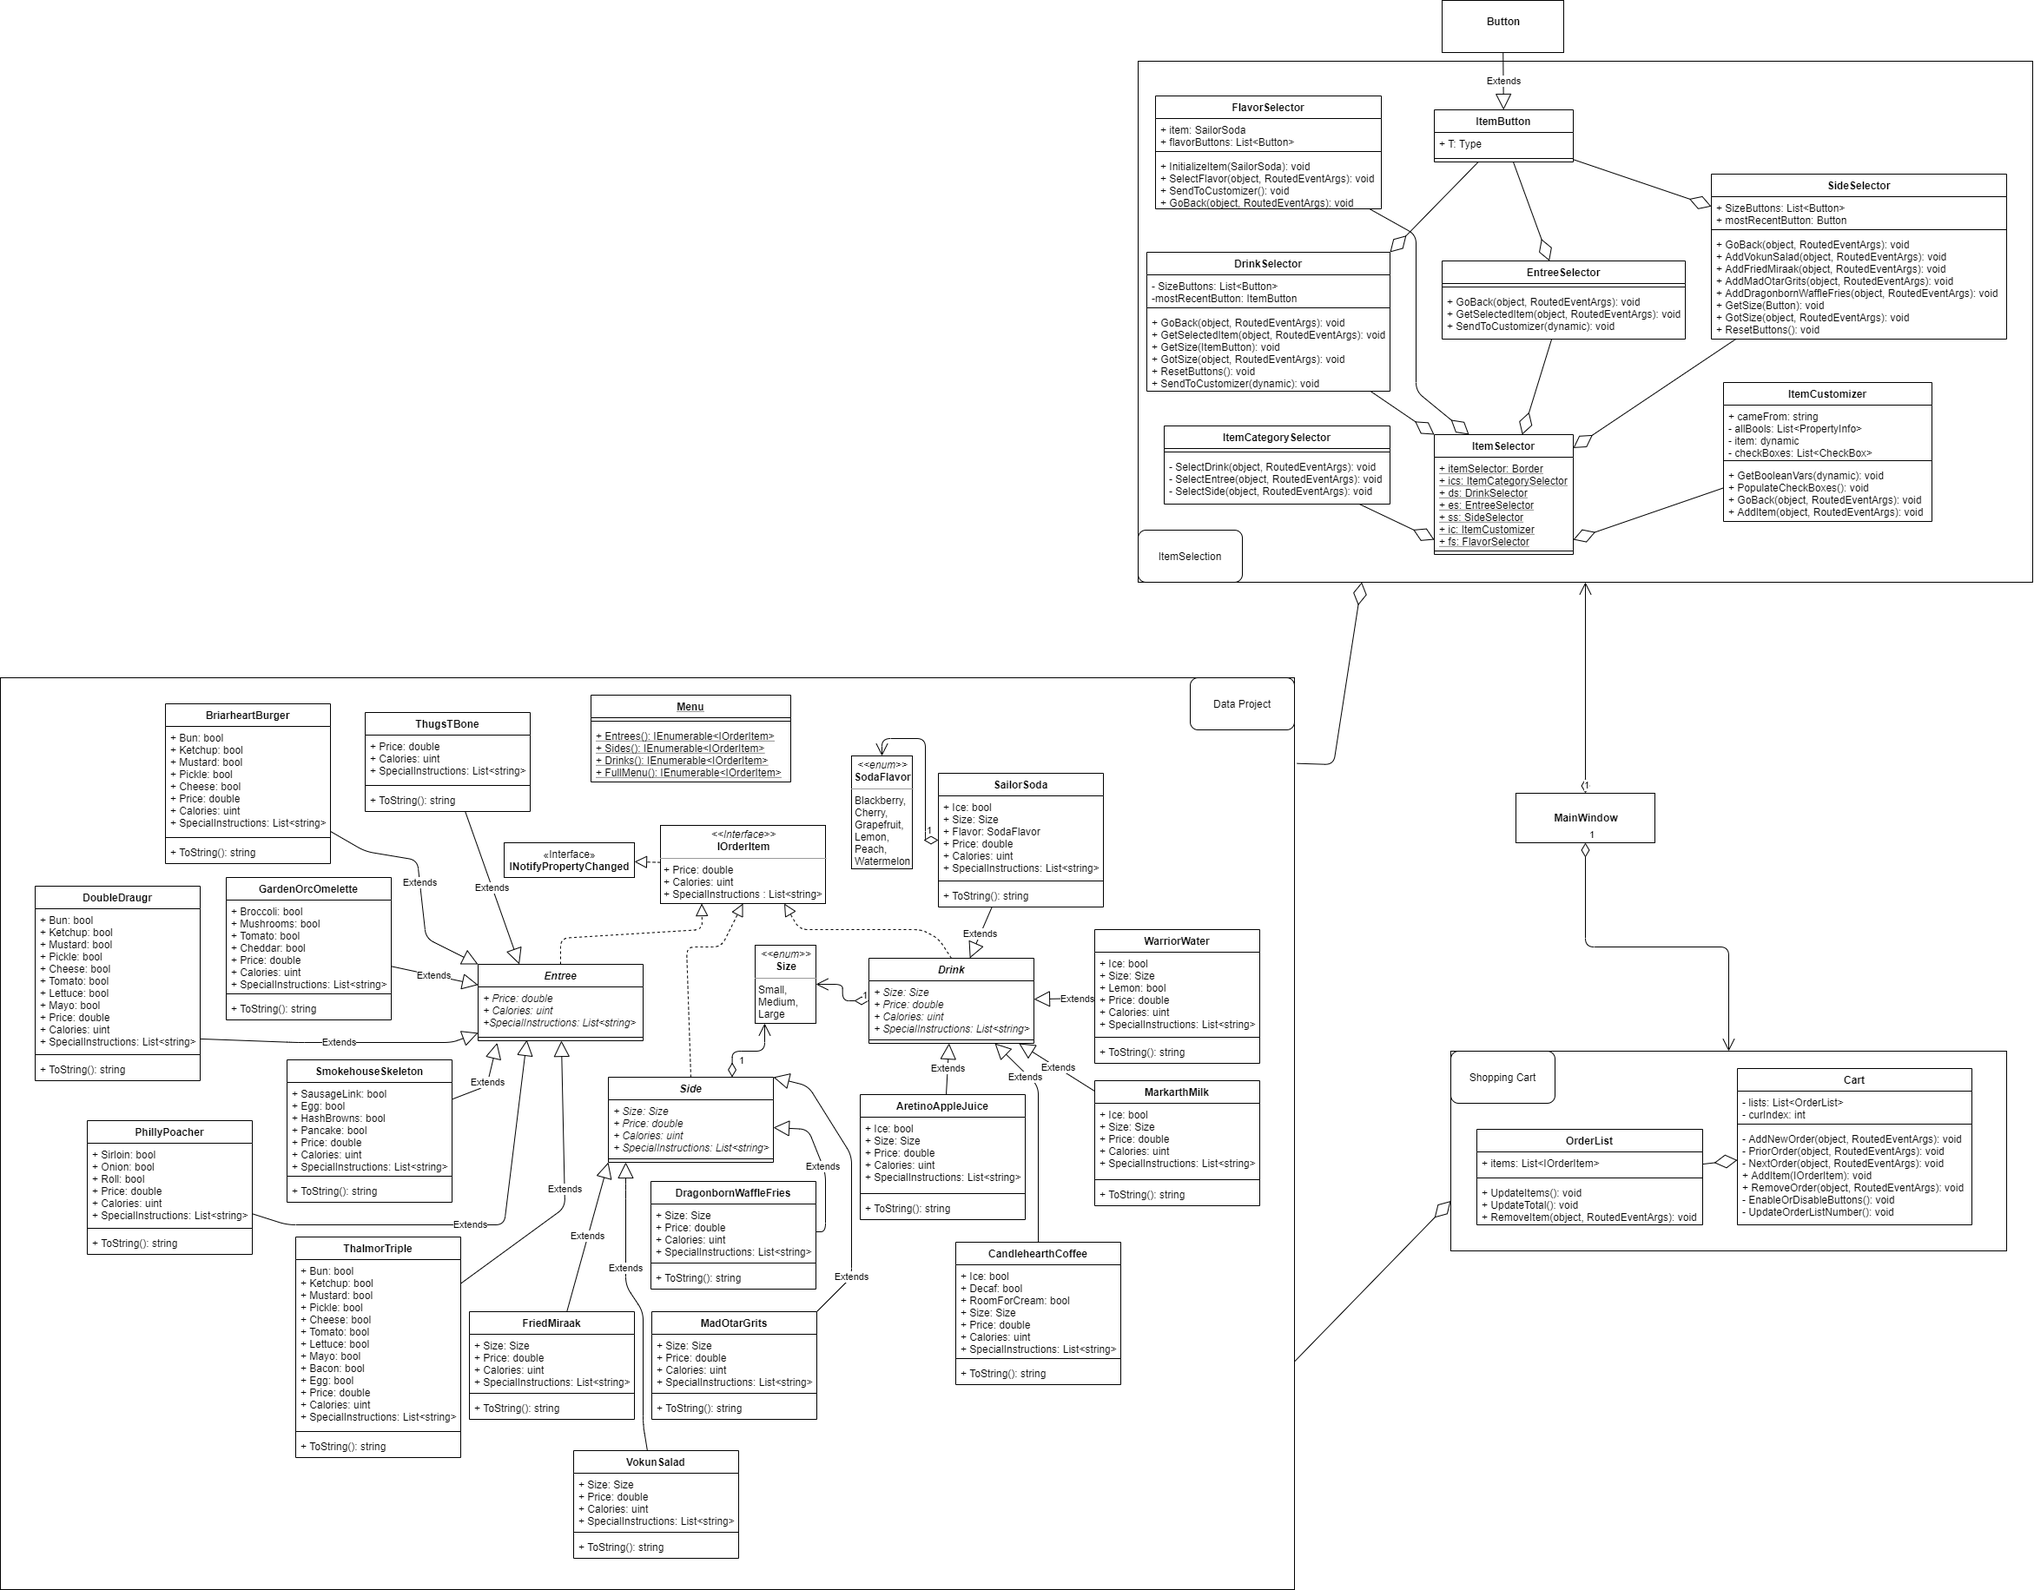
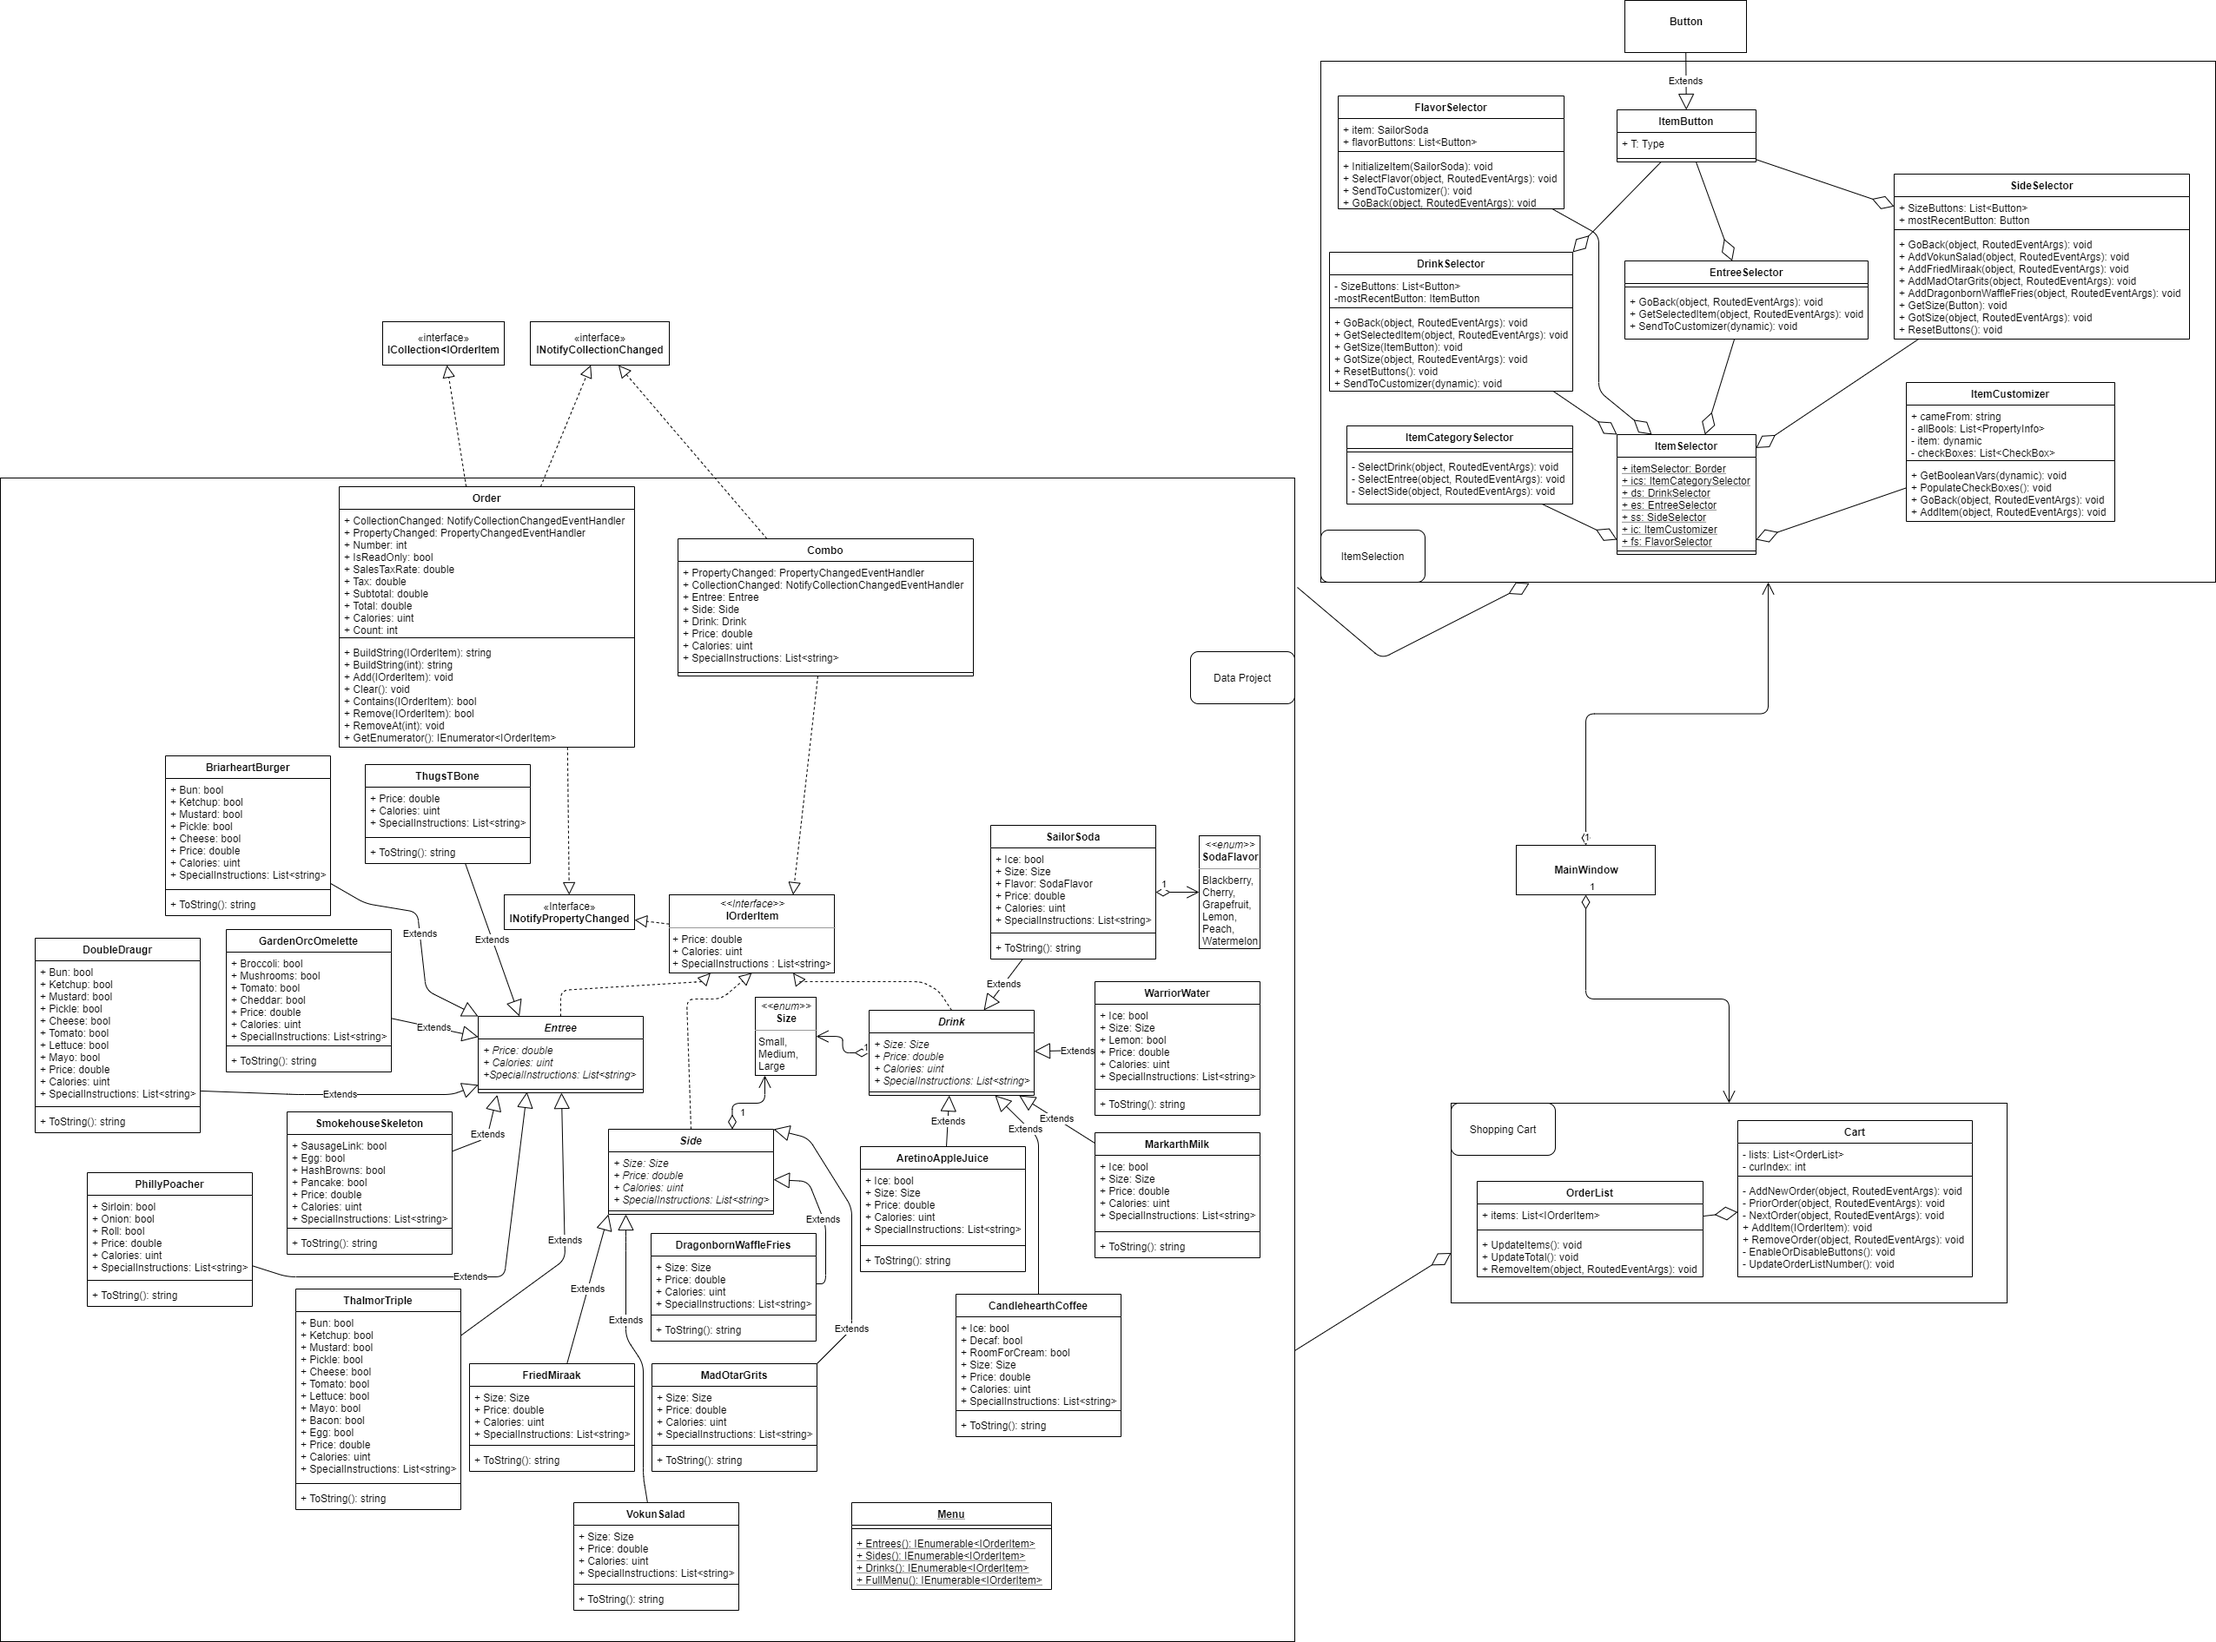
Finished off the integration of Order to OrderList. Also updated the UML

diff --git a/Data/Order.cs b/Data/Order.cs
@@ -80,7 +80,7 @@ namespace BleakwindBuffet.Data
         {
             get
             {
-                return Math.Round(SalesTaxRate * Total, 2);
+                return Math.Round(SalesTaxRate * Subtotal, 2);
             }//end getter
         }//end property
 
@@ -158,6 +158,74 @@ namespace BleakwindBuffet.Data
             Number = nextOrderNumber;
             nextOrderNumber++;
         }//end no-arg constructor
+
+        /// <summary>
+        /// Builds a combination of the ToString and SpecialInstructions
+        /// </summary>
+        /// <param name="item">The item in the list to build the string from</param>
+        /// <returns>returns a nice combination of the ToString and 
+        /// SpecialInstructions()</returns>
+        public string BuildString(IOrderItem item)
+        {
+            if (!data.Contains(item))
+            {
+                throw new ArgumentException("that item is not in the list");
+            }//end if the item isn't in the list
+            else
+            {
+                return BuildStringHelper(item);
+            }//end else the item is properly in the list
+        }//end BuildString(item)
+
+        /// <summary>
+        /// Builds a combination of the ToString and SpecialInstructions
+        /// </summary>
+        /// <param name="index">The index of the item in this list to build
+        /// a string from</param>
+        /// <returns>returns a nice combination of the ToString and 
+        /// SpecialInstructions()</returns>
+        public string BuildString(int index)
+        {
+            if(index < 0 || index > data.Count)
+            {
+                throw new IndexOutOfRangeException("Index out of range of data");
+            }//end if index is out of range
+            else
+            {
+                return BuildStringHelper(data[index]);
+            }//end else the index is more or less in range
+        }//end BuildString(index)
+
+        /// <summary>
+        /// actually goes ahead and builds the string which gets returned
+        /// </summary>
+        /// <param name="item">the item whose information will be used in the
+        /// string. It needs to implement IOrderItem and have a properly 
+        /// implemented ToString() and SpecialInstructions() method</param>
+        /// <returns>returns a nice combination of the ToString and 
+        /// SpecialInstructions()</returns>
+        private string BuildStringHelper(IOrderItem item)
+        {
+            string itemName = item.ToString();
+
+            List<string> instructions = item.SpecialInstructions;
+            
+            StringBuilder helper = new StringBuilder();
+
+            helper.Append(" ");
+            helper.Append(itemName);
+
+            helper.Append("\t$");
+            helper.Append(item.Price);
+
+            foreach(string str in instructions)
+            {
+                helper.Append("\n- ");
+                helper.Append(str);
+            }//end foreach string in instructions
+
+            return helper.ToString();
+        }//end BuildStringHelper(item)
 
         /// <summary>
         /// adds an item to the order

diff --git a/PointOfSale/ShopingCart/OrderList.xaml.cs b/PointOfSale/ShopingCart/OrderList.xaml.cs
@@ -47,16 +47,16 @@ namespace PointOfSale.ShopingCart
             List<string> updated = new List<string>();
             foreach(IOrderItem item in items)
             {
-                StringBuilder sb = new StringBuilder();
-                sb.Append(item.ToString());
-                sb.Append("\t"); // the space between the item name and its calories
+                //StringBuilder sb = new StringBuilder();
+                //sb.Append(items.BuildString(item)); //sb.Append(item.ToString());
+                //sb.Append("\t"); // the space between the item name and its calories
                 
                 //sb.Append(item.Calories);
                 //sb.Append("calories");
                 //sb.Append(" "); // the space between the item calories and its price
-                sb.Append("$");
-                sb.Append(item.Price);
-                updated.Add(sb.ToString());
+                //sb.Append("$");
+                //sb.Append(item.Price);
+                updated.Add(items.BuildString(item));
             }//end putting each item from items into updated
 
             orderItems.Items.Clear();
@@ -74,11 +74,11 @@ namespace PointOfSale.ShopingCart
         public void UpdateTotal()
         {
             StringBuilder totalBuilder = new StringBuilder();
-            totalBuilder.Append("Subtotal");
+            totalBuilder.Append("Subtotal: $");
             totalBuilder.Append(items.Subtotal);
-            totalBuilder.Append("\nTax");
+            totalBuilder.Append("\nTax: $");
             totalBuilder.Append(items.Tax);
-            totalBuilder.Append("\nTotal");
+            totalBuilder.Append("\nTotal: $");
             totalBuilder.Append(items.Total);
 
             orderTotalTextBlock.Text = totalBuilder.ToString();
